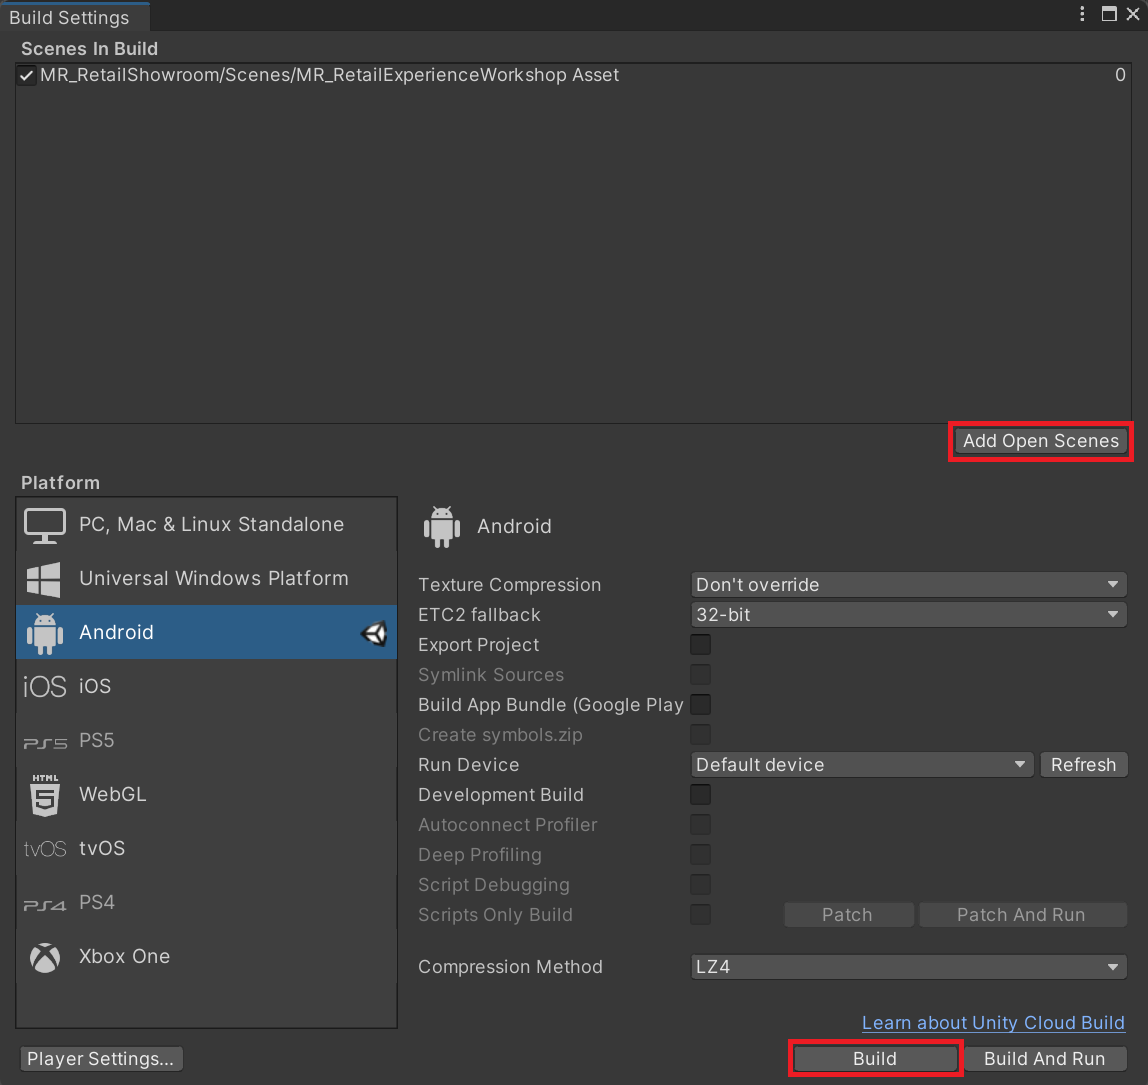
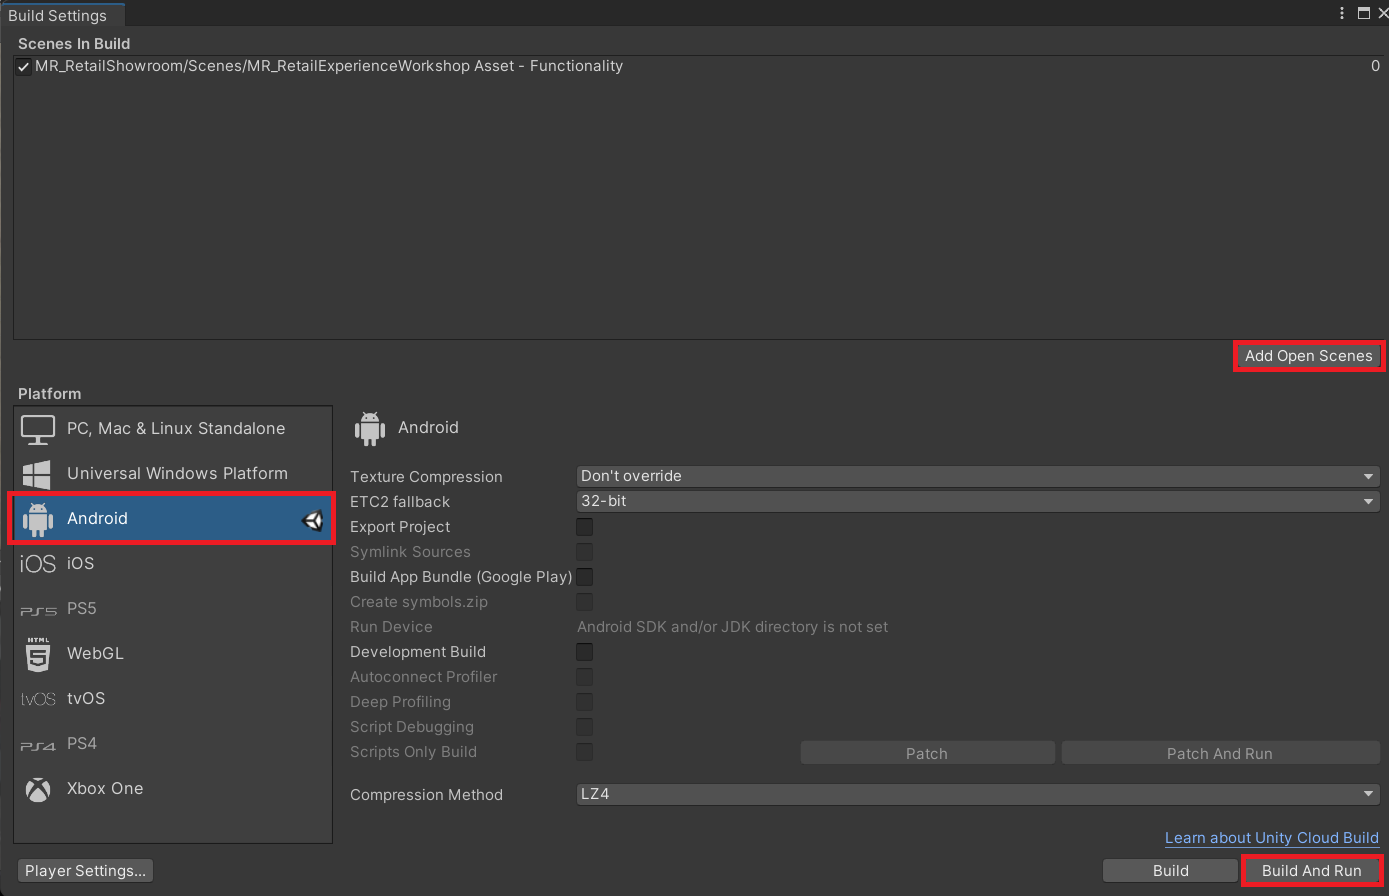
Updated .md #5 with some updates to the section on building to Quest. Adjusted some settings in the project.

diff --git a/.md/5-build-deploy.md b/.md/5-build-deploy.md
@@ -96,30 +96,28 @@ The first time you deploy an app to your HoloLens from your PC, you'll be prompt
 
 ### Porting to Meta Quest
 
-1. Ensure that your project is ready to deploy on the Quest device.
+1. Ensure that your project is ready to deploy on the Quest device. Coneect your quest device to your computer with a USB cable. 
 
 2. Ensure that **developer mode** is enabled on your device. Installing the **Meta ADB Drivers** is optional.
 
-3. Ensure that your project settings are configured correctly to use the **Open XR pipeline** and **MRTK's feature set**. These features are required to deploy your project to Meta Quest.
+3. Navigate to **File >**  **Build Settings**
 
-4. Navigate to **File >**  **Build Settings**
-
-5. Now, under Platform, select **Android**. Then, switch the Platform to Android.
+4. Now, under Platform, select **Android**. Then, switch the Platform to Android.
 
 >**Note:**
 To have the Android option enabled in the Build Settings Window, ensure that Android is checked while you download the respective unity version through Unity Hub.
 
 ### Build to Meta Quest
 
-1. Once the porting is completed, Navigate to **Edit**  **Project Settings**
+1. Once the porting is completed, Navigate to **Edit** > **Project Settings**
 
 2. Now, under Project Settings, navigate to **XR Plug-in Management** and enable **OpenXR** under the **Android** tab. Ensure that **Initialize XR on Startup** is selected and that no feature groups are enabled.
 
     ![A screenshot of enabling openxr](img/openxr-enabled.png)
 
-3. In Project Settings, navigate to **XR Plug-in Management**  **OpenXR**  **Interaction Profiles** and Click on the + icon to add **Meta Touch Controller Profile**.
+3. In Project Settings, navigate to **XR Plug-in Management** > **OpenXR** > **Interaction Profiles** and Click on the + icon to add **Occulus Touch Controller Profile**.
 
-4. Again, Under Project Settings, navigate to **XR Plug-in Management**  **OpenXR**  **OpenXR Feature Groups** and ensure the following are checked under All Features.
+4. Remain in Project Settings. Navigate to **XR Plug-in Management** > **OpenXR** > **OpenXR Feature Groups** and ensure the following are checked under All Features. Also double check that the other values inthis window look like the image below (Render Mode, Depth Submission Mode, etc.)
 
     ![A screenshot of checking the features](img/feature-checked.png)
 
@@ -148,12 +146,12 @@ If you do not see Meta Quest Support under the OpenXR Feature Groups panel, make
 
 ### Deploying to Device
 
-1. After you have the project configured, proceed to Generate Build. Navigate to **File**  **Build Settings**. Click on **Add Open Scenes** and later click on **Build** as highlighted in the picture. 
+1. After you have the project configured, proceed to Generate Build. Navigate to **File** > **Build Settings**. Click on **Add Open Scenes** and then click on **Build and Run**. This will deploy the build directly to your Quest, as long as it is connected to your computer via USB.
 
     ![A screenshot of selecting Build.](img/build-device.png)
 
 >**Note:**
 Do not follow the Configure Settings instructions on Meta's documentation page. Their instructions require the use of the Meta Integration SDK, and uses the Meta XR Plug-in rather than the OpenXR Plug-in.
 
->**Tip:**
-If you select Build and Run in your build settings window, it will compile and deploy directly onto your Meta Quest.
+>**Note:**
+If you recieve and error saying that you don't have a valid MRTK profile for the chosen platform, go up to **Edit** > **Project Settings** and click on the **MRTK3** tab. Make sure that you have the MRTK profile selected under the profile, it may have been cleared after switching platforms. 
